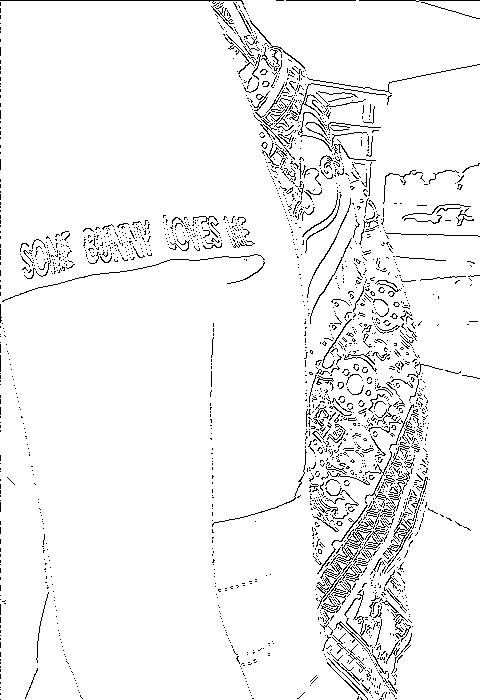
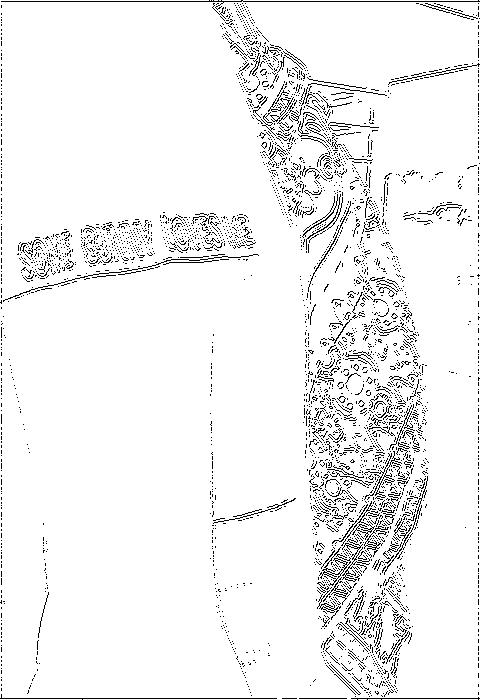
sharpen

diff --git a/src/main.py b/src/main.py
@@ -5,8 +5,9 @@ from src.canny_related import initiateMask, getGradientMatrix, getMagnitudeMatri
 from src.img_handler import readImage, savePixelGrayValueToMatrix, smoothingAvg, smoothingAvg2
 from src import test
 import numpy as np
-ip = "..\\trump.jpg"
-op = "..\\trump_edge.jpg"
+from src import img_handler
+ip = "..\\bunny.jpg"
+op = "..\\bunny_edge.jpg"
 # ip = "..\\sunset_winter.jpg"
 # op = "..\\sunset_winter_edge.jpg"
 
@@ -15,14 +16,15 @@ def realMain():
     initiateMask()
     img = readImage(ip)
     gray_matrix = savePixelGrayValueToMatrix(img)
-    gray_matrix = smoothingAvg2(gray_matrix, 2)
+    gray_matrix = smoothingAvg2(gray_matrix, 1)
+    gray_matrix = img_handler.sharpen(gray_matrix,2)
     biggerMatrix = saveToBiggerMatrix(gray_matrix, 1)
     horizontalGradientMatrix = getGradientMatrix(biggerMatrix, 1)
     verticalGradientMatrix = getGradientMatrix(biggerMatrix, 2)
     magnitudeMatrix = getMagnitudeMatrix(horizontalGradientMatrix, verticalGradientMatrix)
     directionMatrix = getDirectionMatrix(horizontalGradientMatrix, verticalGradientMatrix)
     print(np.where(directionMatrix < 0)[0].shape)
-    edgePoints = cannyGetEdgePoints(magnitudeMatrix, directionMatrix, img.size[0], True)
+    edgePoints = cannyGetEdgePoints(magnitudeMatrix, directionMatrix, img.size[0], False)
     edgeImg = Image.new("1", img.size, 255)
     pix = edgeImg.load()
     for id in edgePoints:
@@ -32,8 +34,9 @@ def realMain():
     print("--- %s seconds ---" % (time.clock() - start))
 
 def testMain():
-    test.testSmoothAvg()
+    # test.testSmoothAvg()
     # print(test.twiceReturn())
+    test.testConvolve()
 
 if __name__ == '__main__':
     realMain()

diff --git a/src/utils.py b/src/utils.py
@@ -18,6 +18,20 @@ def saveToBiggerMatrix(data_matrix, margin):
     return rs
 
 
+def convolve(theMatrix, kernel):
+    mWidth = theMatrix.shape[1]
+    mHeight = theMatrix.shape[0]
+    kWidth = kernel.shape[1]
+    kHeight = kernel.shape[0]
+    margin = math.floor(kWidth / 2)
+    biggerMatrix = saveToBiggerMatrix(theMatrix,margin)
+    rs = np.zeros((mHeight,mWidth))
+    for yM in range(mHeight):
+        for yK in range(kHeight):
+            rs[yM,:] += np.convolve(biggerMatrix[yM+yK,:],np.flipud(kernel[yK,:]),'valid')
+    return rs
+
+
 # derection in degrees
 # output : [a,b] --> y = ax + b , x = (y-b)/a
 def getGraph(currentPoint, direction):

diff --git a/src/test.py b/src/test.py
@@ -1,5 +1,6 @@
 import numpy as np
 from src import img_handler
+from src import utils
 
 def testSmoothAvg():
     t = np.arange(100).reshape((10,10))
@@ -14,3 +15,10 @@ def twiceReturn():
         return 1
     print("this sucks")
     return 0
+
+def testConvolve():
+    t = np.arange(16).reshape((4,4))
+    kernel = np.arange(9).reshape((3,3))
+    print(t)
+    print(kernel)
+    print(utils.convolve(t,kernel))

diff --git a/src/img_handler.py b/src/img_handler.py
@@ -113,6 +113,12 @@ def smoothingAvg2(grayMatrix,margin):
             rs[y][x] = np.round(sumMatrix[y][x]/numberOfNearPixels)
     return rs
 
+def sharpen(grayMatrix, howSharp):
+    kernel = np.zeros((3,3))
+    kernel.fill(-1 * howSharp / 8)
+    kernel[1][1] = howSharp
+    return utils.convolve(grayMatrix,kernel)
+
 
 
 

diff --git a/src/canny_related.py b/src/canny_related.py
@@ -2,7 +2,7 @@ import numpy as np
 from src import utils
 horizontalMask = np.empty(shape=(3, 3))
 verticalMask = np.empty(shape=(3, 3))
-bigThreshold = 150
+bigThreshold = 70
 smallThreshold = 20
 
 
